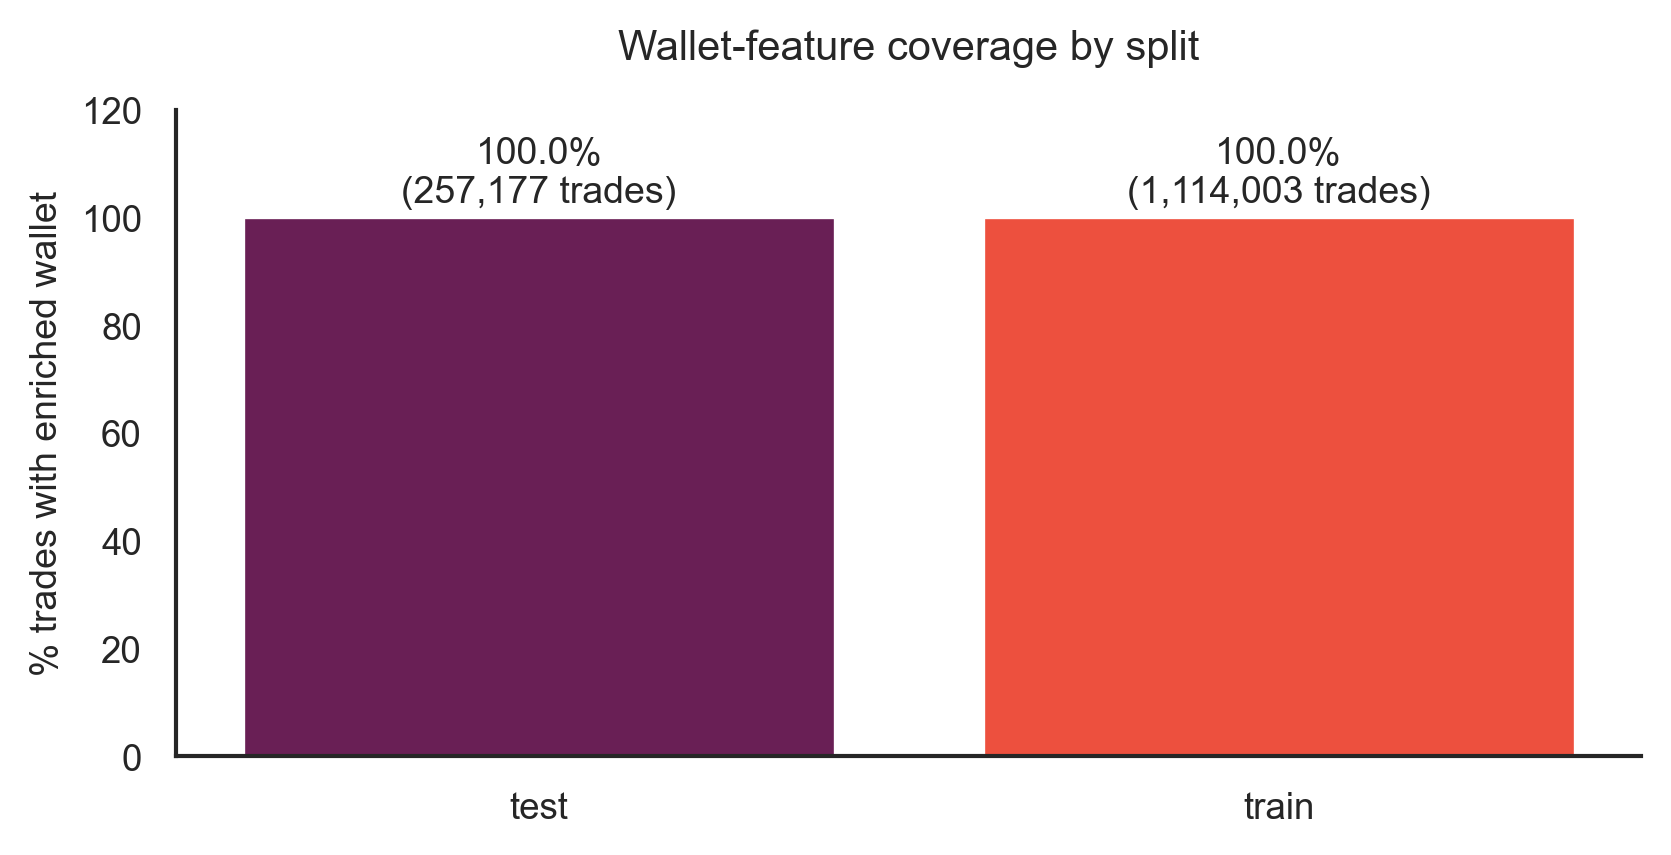
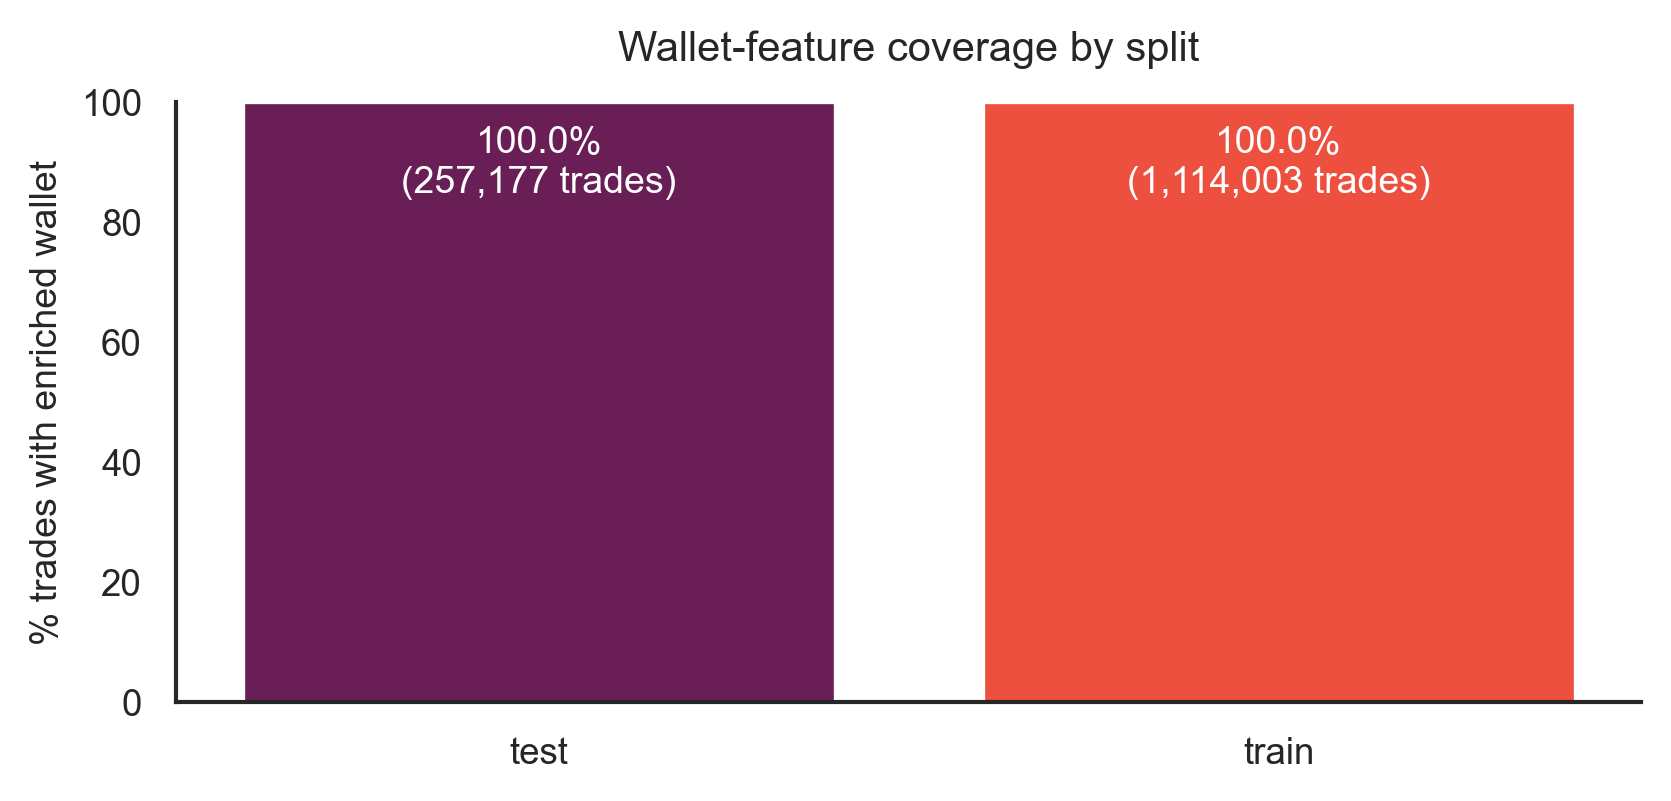
commit

diff --git a/ML/report/pontus/scripts/eda_walletjoined.py b/ML/report/pontus/scripts/eda_walletjoined.py
@@ -14,7 +14,7 @@ Panels that fit the joined schema:
     06  per-market trade count + base-rate spread
     07  train-vs-test distribution shift on top features
 
-Panels skipped (joined parquet is feature-only — no wallet ID, no price
+Panels skipped (joined parquet is feature-only, no wallet ID, no price
 trajectory series, no deadline_ts column at the level the original EDA
 needed):
     - wallet PCA, wallet quadrants, price trajectories, event timing.
@@ -129,7 +129,7 @@ def panel_zero_density(df: pd.DataFrame) -> pd.Series:
     ax.set_yticks(y)
     ax.set_yticklabels(keep.index, fontsize=8)
     ax.set_xlabel("% rows where value = 0")
-    ax.set_title("Zero-density by feature (top 20). Imputation-as-zero is the dataset's NaN proxy")
+    ax.set_title("Zero-density by feature (top 20). Imputation-as-zero is the dataset's NaN proxy.")
     ax.invert_yaxis()
     ax.legend(loc="lower right", frameon=False)
     clean_ax(ax)
@@ -137,7 +137,7 @@ def panel_zero_density(df: pd.DataFrame) -> pd.Series:
 
     txt = OUT_DIR / "01_zero_density.txt"
     txt.write_text(
-        "Zero-density per feature (overall, train, test) — top 30.\n"
+        "Zero-density per feature (overall, train, test). Top 30.\n"
         "The wallet-joined parquet has 0 NaN values. Alex's feature\n"
         "engineering pre-fills structural missingness with 0 (or 0.5 for\n"
         "taker_yes_share_global) at compute time. This panel proxies\n"
@@ -160,20 +160,20 @@ def panel_wallet_coverage(df: pd.DataFrame) -> dict:
     )
     cov["pct_enriched"] *= 100
 
-    fig, ax = plt.subplots(figsize=(FIG_W, 2.8))
+    fig, ax = plt.subplots(figsize=(FIG_W, 2.6))
     bars = ax.bar(
         cov.index, cov["pct_enriched"],
         color=[COL_TRAIN if s == "train" else COL_TEST for s in cov.index],
     )
     ax.set_ylabel("% trades with enriched wallet")
-    ax.set_ylim(0, 120)
-    ax.set_title("Wallet-feature coverage by split", pad=12)
+    ax.set_ylim(0, 100)
+    ax.set_title("Wallet-feature coverage by split", pad=10)
     for bar, pct, n in zip(bars, cov["pct_enriched"], cov["n_rows"]):
         ax.text(
             bar.get_x() + bar.get_width() / 2,
-            bar.get_height() + 1.5,
+            bar.get_height() - 4,
             f"{pct:.1f}%\n({n:,} trades)",
-            ha="center", va="bottom", fontsize=9,
+            ha="center", va="top", fontsize=9, color="white",
         )
     clean_ax(ax)
     save_fig(fig, OUT_DIR / "02_wallet_coverage.png")
@@ -248,55 +248,107 @@ def panel_distributions_and_skew(df: pd.DataFrame) -> pd.DataFrame:
     pd.DataFrame({"skew": skew, "excess_kurtosis": kurt}).round(3).to_csv(out_skew)
     print(f"saved {out_skew.name}")
 
-    top12 = skew.index[:12].tolist()
-    fig, axes = plt.subplots(3, 4, figsize=(FIG_W_WIDE, 6.6))
+    # Pick the top-12 by absolute skew, but require enough spread to actually
+    # render a histogram (drop near-constant features whose 1-99 pct range is
+    # degenerate, those produce empty subplots).
+    plottable = []
+    for feat in skew.index:
+        v = sample[feat].dropna()
+        if v.empty:
+            continue
+        p1, p99 = np.percentile(v, [1, 99])
+        if p1 == p99:
+            continue
+        plottable.append(feat)
+        if len(plottable) == 12:
+            break
+    top12 = plottable
+
+    fig, axes = plt.subplots(3, 4, figsize=(FIG_W_WIDE, 6.6),
+                             constrained_layout=True)
     for ax, feat in zip(axes.flat, top12):
-        for outcome, colour in ((1, COL_CORRECT), (0, COL_INCORRECT)):
-            data = sample.loc[sample[TARGET] == outcome, feat].dropna()
-            if data.empty:
+        for outcome, colour, label in (
+            (0, COL_INCORRECT, "incorrect"),
+            (1, COL_CORRECT, "correct"),
+        ):
+            vals = sample.loc[sample[TARGET] == outcome, feat].dropna()
+            if vals.empty:
                 continue
-            sns.kdeplot(
-                data, ax=ax, fill=True, alpha=0.35, color=colour, lw=1,
-                common_norm=False,
-            )
+            lo, hi = np.percentile(vals, [1, 99])
+            vals = vals.clip(lo, hi)
+            ax.hist(vals, bins=40, alpha=0.45, color=colour, density=True,
+                    label=label, edgecolor="none")
         ax.set_title(feat, fontsize=8)
-        ax.set_xlabel("")
-        ax.set_ylabel("")
+        ax.tick_params(labelsize=7)
         clean_ax(ax)
-    fig.suptitle("Top-12 skewed features — KDE by bet_correct", y=1.01)
-    fig.tight_layout()
+    axes.flat[0].legend(frameon=False, fontsize=7, loc="best")
+    fig.suptitle("Top-12 skewed features: distribution by bet_correct (1 to 99 pct clipped)",
+                 y=1.02)
     save_fig(fig, OUT_DIR / "04_distributions.png")
     return skew
 
 
 def panel_outliers(df: pd.DataFrame, skew: pd.DataFrame, top_k: int = 8) -> None:
-    feats = skew.index[:top_k].tolist()
-    sample = df[feats].sample(min(50_000, len(df)), random_state=42)
-    long = sample.melt(var_name="feature", value_name="value").dropna()
-    fig, ax = plt.subplots(figsize=(FIG_W_WIDE, 3.2))
-    sns.boxplot(
-        data=long, x="feature", y="value",
-        ax=ax, color=PAL_10[5], width=0.5, fliersize=2,
-    )
-    ax.set_title(f"Top-{top_k} skewed features — value spread")
-    ax.tick_params(axis="x", rotation=30)
-    for lbl in ax.get_xticklabels():
-        lbl.set_ha("right")
-    clean_ax(ax)
-    fig.tight_layout()
+    """One boxplot per feature, independent y-axes (features have wildly
+    different scales so a shared axis squashes most boxes flat).
+    """
+    sample = df[skew.index.tolist()].sample(min(150_000, len(df)), random_state=42)
+    data, labels = [], []
+    for feat in skew.index:
+        s = sample[feat].dropna()
+        if s.empty:
+            continue
+        lo, hi = np.percentile(s, [1, 99])
+        if lo == hi:
+            continue
+        data.append(s.clip(lo, hi).values)
+        labels.append(feat)
+        if len(data) == top_k:
+            break
+
+    n = len(data)
+    n_cols = 4
+    n_rows = (n + n_cols - 1) // n_cols
+    fig, axes = plt.subplots(n_rows, n_cols, figsize=(FIG_W_WIDE, 2.7 * n_rows),
+                             constrained_layout=True)
+    axes_flat = axes.flatten() if n > 1 else [axes]
+    for i, (ax, d, lbl) in enumerate(zip(axes_flat, data, labels)):
+        bp = ax.boxplot([d], tick_labels=[""], vert=True, showfliers=False,
+                        patch_artist=True, widths=0.55,
+                        medianprops=dict(color=COL_DARK, lw=1.0),
+                        whiskerprops=dict(color=COL_DARK, lw=0.8),
+                        capprops=dict(color=COL_DARK, lw=0.8))
+        bp["boxes"][0].set_facecolor(PAL_10[min(1 + i, 9)])
+        bp["boxes"][0].set_edgecolor(COL_DARK)
+        bp["boxes"][0].set_alpha(0.85)
+        ax.set_title(lbl, fontsize=7)
+        ax.tick_params(axis="y", labelsize=7)
+        clean_ax(ax)
+    for ax in axes_flat[n:]:
+        ax.set_visible(False)
+    fig.suptitle(f"Top-{n} skewed features: value spread (boxplots)", fontsize=10)
+    fig.supylabel("value (1–99th percentile clipped)", fontsize=9)
     save_fig(fig, OUT_DIR / "05_outlier_boxplots.png")
 
 
 def panel_correlation(df: pd.DataFrame) -> None:
     feats = _numeric_features(df)
     sample = df[feats].sample(min(150_000, len(df)), random_state=42)
-    corr = sample.corr(numeric_only=True).fillna(0)
+    corr_full = sample.corr(numeric_only=True).fillna(0)
 
-    # Restrict to top-40 features by std to keep the heatmap readable.
-    if len(corr) > 40:
-        std_rank = sample.std(numeric_only=True).sort_values(ascending=False)
-        keep = std_rank.head(40).index.tolist()
-        corr = corr.loc[keep, keep]
+    # Restrict to top-40 features by centrality, defined as the mean
+    # absolute Pearson correlation with all OTHER features. This picks
+    # the most entangled features, which is what a correlation matrix is
+    # designed to surface. Diagonal is excluded so self-correlation does
+    # not dominate the ranking.
+    if len(corr_full) > 40:
+        without_self = corr_full.copy()
+        np.fill_diagonal(without_self.values, 0.0)
+        centrality = without_self.abs().mean().sort_values(ascending=False)
+        keep = centrality.head(40).index.tolist()
+        corr = corr_full.loc[keep, keep]
+    else:
+        corr = corr_full
 
     # Upper-triangle only (mask the lower, keep the diagonal).
     mask = np.tril(np.ones_like(corr, dtype=bool), k=-1)
@@ -311,10 +363,27 @@ def panel_correlation(df: pd.DataFrame) -> None:
         square=True, linewidths=0.0, annot=False, ax=ax, cbar_ax=cax,
         cbar_kws={"label": "Pearson r"},
     )
-    ax.tick_params(axis="x", rotation=45, labelsize=8)
-    ax.tick_params(axis="y", rotation=0, labelsize=8)
+    # X-axis labels along the TOP edge, tilted up-and-left, no tick marks.
+    ax.xaxis.tick_top()
+    ax.xaxis.set_label_position("top")
+    ax.tick_params(axis="x", which="both", length=0, labelsize=9, pad=3)
     for lbl in ax.get_xticklabels():
+        lbl.set_rotation(-45)
         lbl.set_ha("right")
+        lbl.set_rotation_mode("anchor")
+        lbl.set_color(COL_DARK)
+        lbl.set_fontweight("medium")
+    # Y-axis labels staircased along the diagonal (next to the triangle
+    # border) instead of pinned to the far left. Hide default y-ticks.
+    ax.set_yticks([])
+    ax.tick_params(axis="y", which="both", length=0, labelleft=False)
+    for i, name in enumerate(corr.index):
+        ax.text(i, i + 0.5, name + "  ", ha="right", va="center", fontsize=8,
+                color=COL_DARK)
+    ax.set_title(
+        "Top-40 features by correlation centrality (mean |Pearson r| with the others)",
+        fontsize=11, pad=20,
+    )
     fig.tight_layout()
     save_fig(fig, OUT_DIR / "06_correlation_heatmap.png")
 
@@ -378,7 +447,7 @@ def panel_train_test_shift(df: pd.DataFrame) -> None:
     train = df[df[SPLIT] == "train"][feats]
     test = df[df[SPLIT] == "test"][feats]
     if train.empty or test.empty:
-        print("skipping shift panel — one split missing")
+        print("skipping shift panel, one split missing")
         return
 
     # Standardised mean shift per feature (Cohen's d-like).
@@ -402,12 +471,12 @@ def panel_train_test_shift(df: pd.DataFrame) -> None:
 
 
 # ---------------------------------------------------------------------------
-# 09. Late-flow signature — base rate vs time-to-deadline buckets.
+# 09. Late-flow signature, base rate vs time-to-deadline buckets.
 # Replicates the Mitts & Ofir 2026 setup that motivated the cohort design.
 # ---------------------------------------------------------------------------
 def panel_late_flow(df: pd.DataFrame) -> None:
     if "log_time_to_deadline_hours" not in df.columns:
-        print("skipping late-flow panel — log_time_to_deadline_hours missing")
+        print("skipping late-flow panel, log_time_to_deadline_hours missing")
         return
 
     # log_time_to_deadline_hours = log1p(hours) ⇒ recover hours then bucket
@@ -471,7 +540,7 @@ def panel_late_flow(df: pd.DataFrame) -> None:
 
 
 # ---------------------------------------------------------------------------
-# 10. Wallet-stratum base rates — motivates Layer-6 enrichment.
+# 10. Wallet-stratum base rates, motivates Layer-6 enrichment.
 # ---------------------------------------------------------------------------
 def panel_wallet_strata(df: pd.DataFrame) -> None:
     fig, axes = plt.subplots(1, 3, figsize=(FIG_W_WIDE, 3.4))
@@ -526,7 +595,7 @@ def panel_wallet_strata(df: pd.DataFrame) -> None:
 
 
 # ---------------------------------------------------------------------------
-# 11. Per-market base rate — the single-event-resolution bimodality.
+# 11. Per-market base rate, the single-event-resolution bimodality.
 # ---------------------------------------------------------------------------
 def panel_per_market_bimodality(df: pd.DataFrame) -> None:
     per = df.groupby([SPLIT, MARKET]).agg(
@@ -554,7 +623,7 @@ def panel_per_market_bimodality(df: pd.DataFrame) -> None:
 
 
 # ---------------------------------------------------------------------------
-# 12. Single-feature ROC per market — feature-stability heatmap.
+# 12. Single-feature ROC per market, feature-stability heatmap.
 # ---------------------------------------------------------------------------
 def panel_feature_stability(df: pd.DataFrame, top_k: int = 8) -> None:
     from sklearn.metrics import roc_auc_score
@@ -584,7 +653,7 @@ def panel_feature_stability(df: pd.DataFrame, top_k: int = 8) -> None:
             rows.append({"market": mkt, "feature": feat, "auc": float(auc)})
 
     if not rows:
-        print("skipping feature-stability panel — no markets met thresholds")
+        print("skipping feature-stability panel, no markets met thresholds")
         return
 
     pm = pd.DataFrame(rows).pivot(index="feature", columns="market", values="auc")
@@ -617,7 +686,7 @@ def panel_feature_stability(df: pd.DataFrame, top_k: int = 8) -> None:
 
 
 # ---------------------------------------------------------------------------
-# 13. Mutual-information feature ranking — non-linear signal counterpart
+# 13. Mutual-information feature ranking, non-linear signal counterpart
 # to the Pearson skew table.
 # ---------------------------------------------------------------------------
 def panel_mutual_information(df: pd.DataFrame) -> None:
@@ -646,7 +715,7 @@ def panel_mutual_information(df: pd.DataFrame) -> None:
 
 
 # ---------------------------------------------------------------------------
-# 14. Feature-group taxonomy — how the 79 features split across layers.
+# 14. Feature-group taxonomy, how the 79 features split across layers.
 # ---------------------------------------------------------------------------
 FEATURE_GROUPS: list[tuple[str, list[str]]] = [
     ("Trade-level", [
@@ -735,7 +804,7 @@ def panel_feature_taxonomy(df: pd.DataFrame) -> None:
 
 
 # ---------------------------------------------------------------------------
-# 15. Distribution-tail diagnostics — fat-tail screen.
+# 15. Distribution-tail diagnostics, fat-tail screen.
 # Pairs with skew + excess kurtosis from panel 04. For each top-10 fat-tail
 # feature, show the 1/5/95/99 percentiles + tail-conditional mean (mean
 # beyond p95 / below p5). Cohen's-d style robustness diagnostic from MA2.
@@ -784,13 +853,13 @@ def panel_tail_diagnostics(df: pd.DataFrame) -> None:
 
 
 # ---------------------------------------------------------------------------
-# 16. Temporal base-rate drift — rolling base rate vs trade time.
+# 16. Temporal base-rate drift, rolling base rate vs trade time.
 # MA2-style rolling-window drift detection. Tests whether bet_correct base
 # rate is stable across the strike-countdown / ceasefire-countdown windows.
 # ---------------------------------------------------------------------------
 def panel_temporal_drift(df: pd.DataFrame) -> None:
     if "timestamp" not in df.columns:
-        print("skipping temporal-drift panel — timestamp missing")
+        print("skipping temporal-drift panel, timestamp missing")
         return
 
     times = pd.to_datetime(df["timestamp"], unit="s", utc=True)
@@ -858,11 +927,11 @@ def write_index(out_dir: Path) -> None:
         ("16_temporal_drift.png", "Daily bet_correct base rate with 7-day rolling mean, per split."),
         ("summary.txt", "Plain-text summary of dataset shape, base rates, missingness."),
     ]
-    lines = ["# EDA index — wallet-joined Alex cohort", ""]
+    lines = ["# EDA index, wallet-joined Alex cohort", ""]
     for name, blurb in items:
         path = out_dir / name
-        present = "✓" if path.exists() else "—"
-        lines.append(f"- [{present}] **{name}** — {blurb}")
+        present = "✓" if path.exists() else "x"
+        lines.append(f"- [{present}] **{name}**: {blurb}")
     (out_dir / "index.md").write_text("\n".join(lines) + "\n")
     print(f"saved index.md")
 
@@ -870,7 +939,7 @@ def write_index(out_dir: Path) -> None:
 def write_summary(df: pd.DataFrame, nulls: pd.Series, cov: dict) -> None:
     feats = _numeric_features(df)
     lines = [
-        "EDA summary — wallet-joined Alex cohort",
+        "EDA summary, wallet-joined Alex cohort",
         f"  rows: {len(df):,}   cols: {len(df.columns):,}   numeric features: {len(feats):,}",
         "",
         "split sizes:",
@@ -916,7 +985,7 @@ def main() -> None:
     panel_temporal_drift(df)
     write_summary(df, nulls, cov)
     write_index(OUT_DIR)
-    print(f"\nEDA done — outputs in {OUT_DIR.relative_to(ROOT)}")
+    print(f"\nEDA done, outputs in {OUT_DIR.relative_to(ROOT)}")
 
 
 if __name__ == "__main__":
